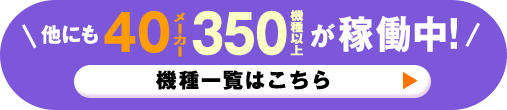
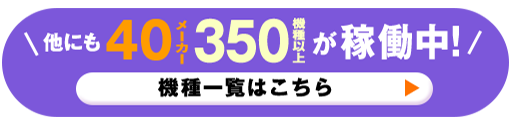
update

diff --git a/css/style.css b/css/style.css
@@ -149,7 +149,8 @@ button:focus, input:focus, a:focus {
 
 /*------------------- Wraper -------------------*/
 .wrapper {
-  background: url("../images/bg_main.jpg") no-repeat #000;
+  background: url("../images/bg_main.jpg") no-repeat top center #000;
+  min-width: 1000px;
 }
 
 .container {
@@ -201,16 +202,21 @@ button:focus, input:focus, a:focus {
 }
 
 .num-select {
-  -webkit-appearance: button;
+  -webkit-appearance: none;
+  -moz-appearance: none;
+  appearance: none;
   margin: 0;
-  padding: 0 186px;
+  padding: 0 179px;
+  width: 562px;
+  height: 72px;
   color: #fff;
   font-size: 30px;
   font-weight: bold;
   text-decoration: none;
-  text-align: center;
+  text-align-last: center;
   line-height: 68px;
   background: url("../images/btn_seclect.png") no-repeat #60126b;
+  background-size: 100%;
   border: 0;
   outline: none;
 }

diff --git a/css/layout/_module.scss b/css/layout/_module.scss
@@ -1,6 +1,7 @@
 /*------------------- Wraper -------------------*/
 .wrapper {
-    background: url('../images/bg_main.jpg')no-repeat #000;
+    background: url('../images/bg_main.jpg') no-repeat top center #000;
+    min-width: 1000px;
 }
 .row_clear {
     @extend %clearfix;
@@ -74,16 +75,19 @@
     background: transparent;
 }
 .num-select {
-    -webkit-appearance: button;
+    appearance: none;
     margin: 0;
-    padding: 0 186px;
+    padding: 0 179px;
+    width: 562px;
+    height: 72px;
     color: #fff;
     font-size: 30px;
     font-weight: bold;
     text-decoration: none;
-    text-align: center;
+    text-align-last:center;
     line-height: 68px;
     background: url('../images/btn_seclect.png') no-repeat #60126b;
+    background-size: 100%;
     border: 0;
     outline: none;
 }
